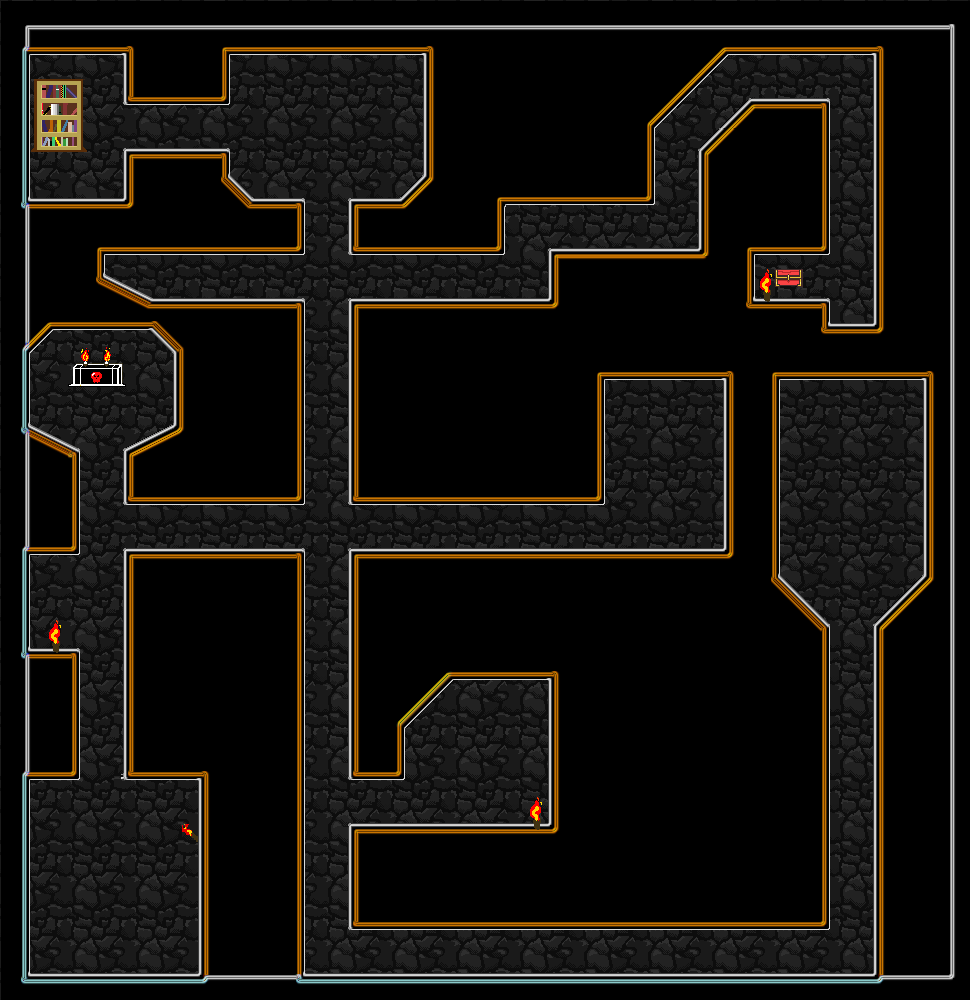
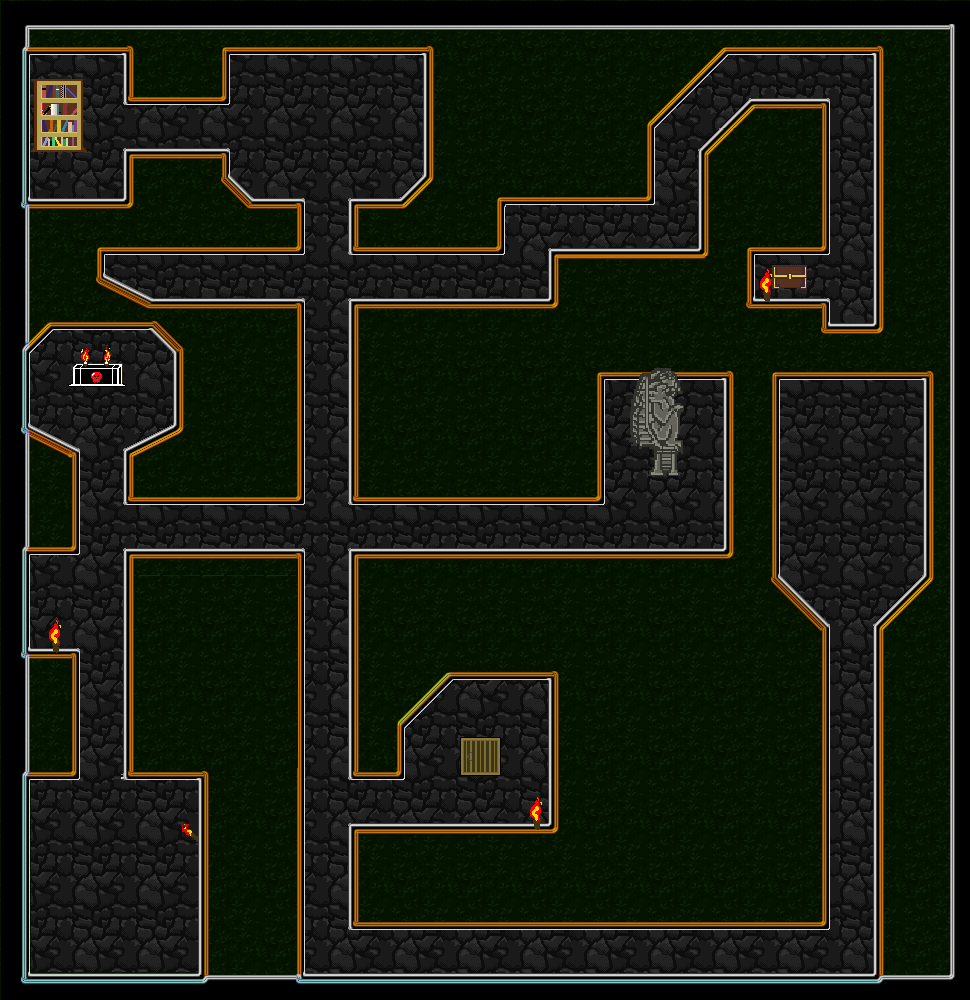
some more battle logic

diff --git a/public/battle.css b/public/battle.css
@@ -31,16 +31,16 @@
 }
 #attackCommand{
     position: absolute;
-    width:300px;
-    height:125px;
+    width:250px;
+    height:100px;
     left: 450px;
     top: 20px;
 
 }
 #itemsCommand{
     position: absolute;
-    height:125px;
-    width:300px;
+    height:100px;
+    width:250px;
     bottom:0px;
     left:0px;
    
@@ -48,8 +48,8 @@
 }
 #runCommand{
     position: absolute;
-    height:125px;
-    width:300px;
+    height:100px;
+    width:250px;
     bottom:0px;
     right:0px;
 
@@ -59,14 +59,15 @@
     
     margin: auto;
     margin-top : 50px;
-    display:none;
+    display: block;
+    
     
 }
 .commands{
     border: 10px solid black;
     border-radius: 8px;
     background-color: grey;
-    font-size: 50px;
+    font-size: 32px;
     text-align: center;
     padding-top: 10px;
     
@@ -78,4 +79,65 @@
     background-color: rgb(68, 66, 66)
 }
 
+.progress-bar{
+    width: 50%;
+}
 
+#playerHP{
+    position: absolute;
+    width: 300px;
+    height: 50px;
+    bottom: 200px;
+    left: 100px;
+    border: 2px solid black;
+    
+    background-color: grey;
+}
+#inner{
+    width: 100%;
+    height: 46px;
+    background-color: rgb(190, 30, 30);
+    opacity: 0.8;
+    color: white;
+    padding: 10px;
+    
+}
+#textHP{
+    font-size: 20px;
+    color: white;
+    position: absolute;
+    width: 300px;
+    height: 50px;
+    bottom: 190px;
+    left: 115px;
+
+}
+#enemyHP{
+
+    position: absolute;
+    width: 300px;
+    height: 50px;
+    bottom: 200px;
+    right: 100px;
+    border: 2px solid black;
+    
+    background-color: grey;
+}
+#innerEnemy{
+    width: 100%;
+    height: 46px;
+    background-color: rgb(190, 30, 30);
+    opacity: 0.8;
+    color: white;
+    padding: 10px;
+}
+#textEnemy{
+    font-size: 20px;
+    color: white;
+    position: absolute;
+    width: 300px;
+    height: 50px;
+    bottom: 190px;
+    right: 80px;
+
+}

diff --git a/public/js/map.js b/public/js/map.js
@@ -6,6 +6,8 @@ $(document).ready(function() {
   let textAltar = "You enter a circular room with nothing inside except an altar with a red skull!"; 
   let textBookcase = "As you enter the room you see a shelf full of books of a variety of colors!";
   let textChest = "You round the corner and find yourself in front of an unlocked chest seemingly overflowing with treasure!"
+  let textStatue = "You enter a rectangular room with a large looming grey statue reseumbling a gargoyle!"
+  let textNothing = "Nothing interesting here!"
   let i = 0;
 
 
@@ -108,6 +110,9 @@ $(document).ready(function() {
       if (position === 5) {
         alterY("260px", 200, 7);
       }
+      if (position === 6) {
+        type(textStatue);
+      }
       if (position === 7) {
         alterY("110px", 200, 9);
         alterButton("right", "hidden", "right");
@@ -143,6 +148,7 @@ $(document).ready(function() {
         alterButton("left", "hidden", "left");
       }
       if (position === 6) {
+        empty();
         alterX("295px", 200, 5);
         alterButton("up", "visible", "up");
         alterButton("left", "visible", "left");
@@ -246,6 +252,7 @@ $(document).ready(function() {
         
       }
       if (position === 4) {
+        empty();
         alterY("510px", 200, 3);
         alterButton("up", "visible", "up");
         alterButton("right", "visible", "right");
@@ -263,6 +270,9 @@ $(document).ready(function() {
         alterY("260px", 200, 7);
         alterButton("up", "visible", "up");
         alterButton("right", "visible", "right");
+      }
+      if (position === 11) {
+        type(textNothing);
       }
       if (position === 12) {
         alterButton("up", "hidden", "up");

diff --git a/public/sprites.js b/public/sprites.js
@@ -497,13 +497,50 @@ function minDrawFrameDeath(frameX, frameY, canvasX, canvasY) {
 /////////////////////////////////////////////////////////////////////////////////////////////////////////
 
 
+function takeDamage() {
+    var missChance = Math.floor((Math.random() * 5) + 1);
+    if (adventurerOBJ.health > 0) {
+        currentPercent -= 14;
+        adventurerOBJ.health -= enemyOBJ.strength;
+        console.log(currentPercent)
+        $("#inner").animate({width: currentPercent +"%"})
+       
+        updateHP();
+
+    } else if (adventurerOBJ.health < 0) {
+        adventurerOBJ.health = 0;
+        updateHP();
+        $("#inner").animate({width: "0%"})
+    }
+    console.log(missChance);
+   
+    console.log(adventurerOBJ.health);
+}
+
+
+function dealDamage() {
+
+}
+
 var adventurerOBJ = {
+    hpTotal: 15,
     health: 15,
     strength:2,
     speed:100,
     score: 0
 }
 var enemyOBJ;
+function updateHP() {
+    $(currentHPText).html(adventurerOBJ.health);
+
+}
+
+//variable declarations
+let currentHPText = $("#currentHP");
+
+let currentPercent = 100
+
+
 
 
 
@@ -562,6 +599,7 @@ $("#attackCommand").on("click", function(){
         if(enemyOBJ.name =="Minotaur"){
             minAnimation = 0;
             setTimeout(minInit, 1000);
+            setTimeout(takeDamage, 1000);
             
             
 

diff --git a/views/map.html b/views/map.html
@@ -7,13 +7,13 @@
     <meta http-equiv="X-UA-Compatible" content="ie=edge">
     <title>Document</title>
     <script src="/js/jquery.js"></script>
-   
-  
+
+
 
     <script src="/js/map.js"></script>
     <link rel="stylesheet" href="/styles/bootstrap/bootstrap.css">
     <link rel="stylesheet" type="text/css" href="battle.css">
- 
+
     <link rel="stylesheet" type="text/css" href="/styles/map.css">
 
 
@@ -64,7 +64,7 @@
 
             </div>
 
-         
+
 
         </div>
 
@@ -75,10 +75,14 @@
             <canvas id="demonAnimationID" width="600" height="450"></canvas>
             <canvas id="minotaurAnimationID" width="250" height="180"></canvas>
         </div>
-
-
-
+    
         <div id="commands">
+            <div id="playerHP"><p id="inner"></p></div>
+            <div id="textHP">Current HP: <span id="currentHP"> 15</span>/ 15</div>
+
+            <div id="enemyHP"><p id="innerEnemy"></p></div>
+            <div id="textEnemy">Current HP: <span id="currentEnemy"></span></div>
+
             <div class="commands" id="attackCommand">ATTACK</div>
             <div class="commands" id="itemsCommand">ITEMS</div>
             <div class="commands" id="runCommand">RUN</div>

diff --git a/public/styles/map.css b/public/styles/map.css
@@ -163,6 +163,10 @@
 }
 
 .container{
+    display: none;
   
    
+}
+.progress-bar{
+    width: 50%;
 }
